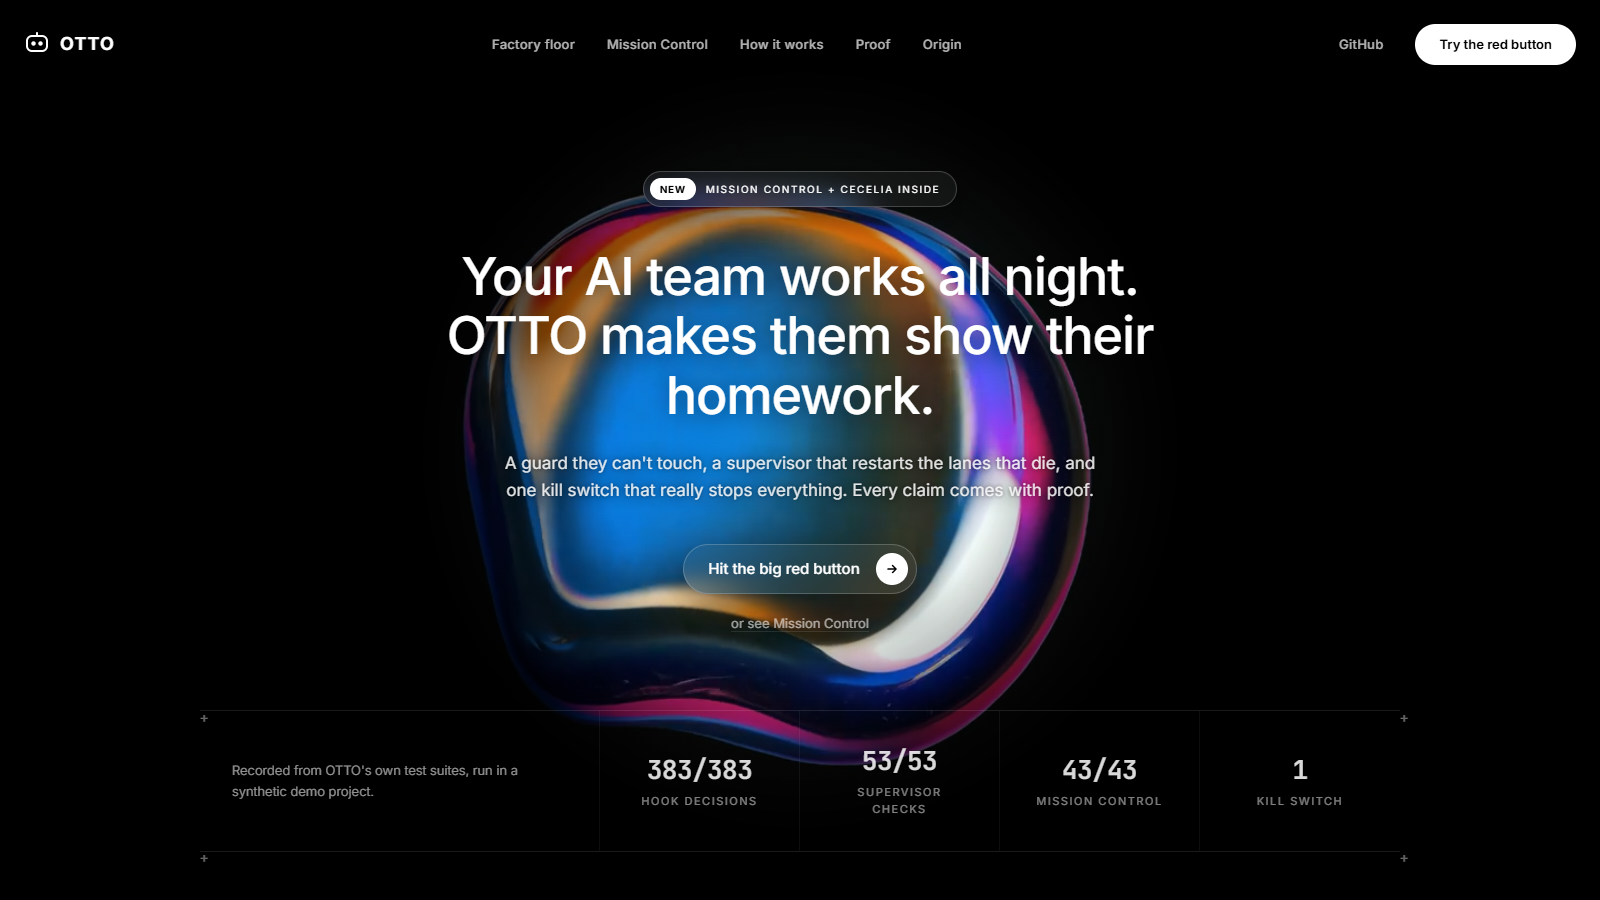
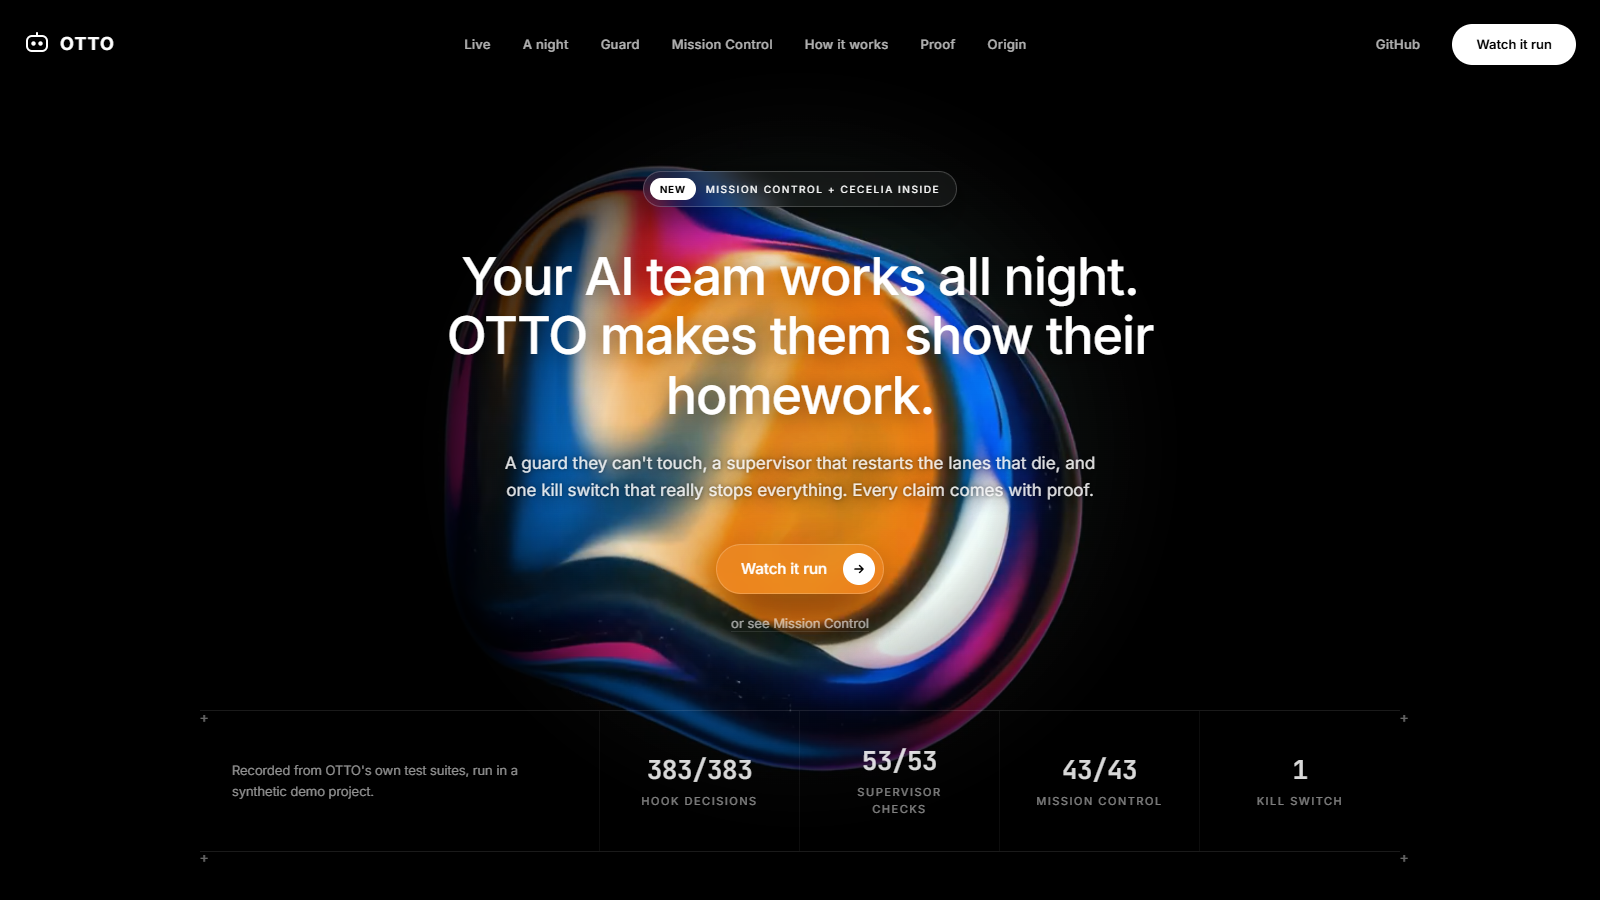
OTTO page: live terminals, a night with OTTO, no big red button

Changed region(s): [[0.2812, 0.1867, 0.6875, 0.8711], [0.2812, 0.0311, 0.6562, 0.0622], [0.8438, 0.0311, 0.9688, 0.0933]]

diff --git a/index.html b/index.html
@@ -66,11 +66,8 @@ h2 em{font-style:normal;color:rgba(255,255,255,.55)}
 .frame .bar{background:rgba(255,255,255,.04);padding:10px 14px;font:12px "JetBrains Mono";color:rgba(255,255,255,.5);display:flex;gap:7px;align-items:center;border-bottom:1px solid var(--line)}
 .frame .bar s{width:9px;height:9px;border-radius:50%;background:rgba(255,255,255,.18);display:inline-block}
 .frame img{display:block;width:100%}
-.fac{display:grid;grid-template-columns:1fr 1.15fr;gap:20px;margin-top:32px}
-.sw{display:flex;flex-direction:column;align-items:center;justify-content:center;gap:16px;text-align:center}
-.bigred{width:180px;height:180px;border-radius:50%;border:1px solid rgba(255,255,255,.25);cursor:pointer;background:radial-gradient(circle at 35% 30%,#ff8a8a,#d81818 58%,#7d0a0a);box-shadow:0 0 60px rgba(255,60,60,.35),inset 0 -8px 20px rgba(0,0,0,.4);color:#fff;font:700 18px Inter;letter-spacing:.1em;transition:transform .12s,box-shadow .2s}
-.bigred:active{transform:scale(.96)}
-.bigred.off{background:radial-gradient(circle at 35% 30%,#8af5c0,#17b86d 58%,#0b6b3f);box-shadow:0 0 60px rgba(52,227,176,.35),inset 0 -8px 20px rgba(0,0,0,.4)}
+.fac{display:grid;grid-template-columns:1fr;gap:14px;margin-top:32px}
+.sw{display:flex;flex-direction:row;align-items:center;justify-content:flex-start;gap:16px;padding:14px 18px}
 .state{font:600 12px "JetBrains Mono";letter-spacing:.1em;padding:6px 14px;border-radius:999px;border:1px solid}
 .on{color:var(--g);border-color:rgba(52,227,176,.4);background:rgba(52,227,176,.08)}.stop{color:var(--r);border-color:rgba(255,93,93,.4);background:rgba(255,93,93,.08)}
 .lanes{display:grid;gap:10px;align-content:center}
@@ -98,7 +95,32 @@ tr:last-child td{border-bottom:0}.ok{color:var(--g);font-weight:600;white-space:
 .btn{display:inline-block;background:#fff;color:#000;font-weight:600;font-size:14px;padding:12px 22px;border-radius:999px;text-decoration:none}
 .btn.g{background:var(--glass);color:#fff;border:1px solid rgba(255,255,255,.2)}
 footer{margin-top:80px;border-top:1px solid var(--line);padding:30px 24px 50px;color:rgba(255,255,255,.5);text-align:center;font-size:14px;font-weight:300}
+
+/* ---------- live terminals ---------- */
+.term{background:#05060a;border:1px solid var(--line);border-radius:16px;overflow:hidden;box-shadow:0 30px 80px rgba(0,0,0,.6);display:flex;flex-direction:column;min-height:330px}
+.term .bar{background:rgba(255,255,255,.04);padding:10px 14px;font:12px "JetBrains Mono";color:rgba(255,255,255,.5);display:flex;gap:7px;align-items:center;border-bottom:1px solid var(--line)}
+.term .bar s{width:9px;height:9px;border-radius:50%;background:rgba(255,255,255,.18);display:inline-block}
+.term .bar em{margin-left:auto;font-style:normal;font-size:10px;letter-spacing:.12em;text-transform:uppercase;color:var(--g);display:flex;align-items:center;gap:6px}
+.term .bar em:before{content:"";width:6px;height:6px;border-radius:50%;background:var(--g);animation:pulse 1.4s infinite}
+@keyframes pulse{50%{opacity:.25}}
+.term pre{margin:0;padding:16px;font:12.5px/1.7 "JetBrains Mono",ui-monospace,monospace;color:rgba(255,255,255,.78);white-space:pre-wrap;word-break:break-word;flex:1;overflow:hidden}
+.term .p{color:var(--g)}.term .ok{color:var(--g)}.term .bad{color:var(--r)}.term .dim{color:rgba(255,255,255,.4)}.term .warn{color:var(--o)}
+.term .cur{display:inline-block;width:7px;height:14px;background:#fff;vertical-align:-2px;margin-left:2px;animation:pulse 1s steps(2) infinite}
+.tgrid{display:grid;grid-template-columns:repeat(3,1fr);gap:16px;margin-top:32px}
+.note{font-size:13px;color:rgba(255,255,255,.4);margin-top:14px;font-weight:300}
+/* ---------- a night with OTTO ---------- */
+.night{display:grid;grid-template-columns:.9fr 1.3fr;gap:32px;margin-top:36px;align-items:start}
+.steps{display:flex;flex-direction:column;gap:10px}
+.step{background:var(--glass);border:1px solid var(--line);border-radius:16px;padding:16px 18px;cursor:pointer;text-align:left;color:inherit;font:inherit;transition:border-color .25s,background .25s,transform .25s}
+.step:hover{border-color:rgba(255,255,255,.3)}
+.step.a{border-color:rgba(52,227,176,.6);background:rgba(52,227,176,.06);transform:translateX(4px)}
+.step .tm{font:600 11px "JetBrains Mono";letter-spacing:.14em;color:var(--g)}
+.step b{display:block;font-weight:500;font-size:16px;margin:2px 0}.step small{color:rgba(255,255,255,.55);font-size:14px;font-weight:300}
+.stage{position:sticky;top:20px}
+.stage .frame img{aspect-ratio:16/10;object-fit:cover;object-position:top;transition:opacity .35s}
+.stage .term{margin-top:12px;min-height:0}.stage .term pre{min-height:108px;padding:12px 16px}
 @media(max-width:900px){
+ .tgrid,.night{grid-template-columns:1fr}.stage{position:static}
  .links,.act{display:none}.burger{display:block}
  .vbox{width:560px;height:560px}
  .grid6{grid-template-columns:repeat(2,1fr)}.grid6 .t{grid-column:span 2;padding:24px}.grid6>div{padding:22px;border-bottom:1px solid rgba(255,255,255,.05)}
@@ -112,17 +134,17 @@ footer{margin-top:80px;border-top:1px solid var(--line);padding:30px 24px 50px;c
 
  <nav class="top al d100">
   <a class="logo" href="#top" aria-label="OTTO home"><svg width="26" height="26" viewBox="0 0 26 26" fill="none" aria-hidden="true"><rect x="3" y="5" width="20" height="15" rx="5" stroke="#fff" stroke-width="2"/><circle cx="9.5" cy="12.5" r="2.2" fill="#fff"/><circle cx="16.5" cy="12.5" r="2.2" fill="#fff"/><path d="M13 5V2" stroke="#fff" stroke-width="2" stroke-linecap="round"/></svg>OTTO</a>
-  <div class="links"><a href="#floor">Factory floor</a><a href="#mc">Mission Control</a><a href="#how">How it works</a><a href="#proof">Proof</a><a href="#origin">Origin</a></div>
-  <div class="act"><a class="l" href="https://github.com/Tootenramen/OTTO">GitHub</a><a class="pill-w" href="#floor">Try the red button</a></div>
+  <div class="links"><a href="#live">Live</a><a href="#night">A night</a><a href="#floor">Guard</a><a href="#mc">Mission Control</a><a href="#how">How it works</a><a href="#proof">Proof</a><a href="#origin">Origin</a></div>
+  <div class="act"><a class="l" href="https://github.com/Tootenramen/OTTO">GitHub</a><a class="pill-w" href="#live">Watch it run</a></div>
   <button class="burger" id="bg" aria-label="Menu" aria-expanded="false"><svg width="26" height="26" viewBox="0 0 24 24" fill="none" stroke="#fff" stroke-width="2" stroke-linecap="round"><path d="M4 7h16M4 12h16M4 17h16"/></svg></button>
  </nav>
- <div class="ov" id="ov"><a href="#floor">Factory floor</a><a href="#mc">Mission Control</a><a href="#how">How it works</a><a href="#proof">Proof</a><a href="#origin">Origin</a><a href="https://github.com/Tootenramen/OTTO">GitHub</a></div>
+ <div class="ov" id="ov"><a href="#live">Live</a><a href="#night">A night</a><a href="#floor">Guard</a><a href="#mc">Mission Control</a><a href="#how">How it works</a><a href="#proof">Proof</a><a href="https://github.com/Tootenramen/OTTO">GitHub</a></div>
 
  <div class="mid" id="top">
   <div class="vp al d200"><b>New</b><span>Mission Control + CECELIA inside</span></div>
   <h1 class="al d300">Your AI team works all night.<br>OTTO makes them show their homework.</h1>
   <p class="sub al d400">A guard they can't touch, a supervisor that restarts the lanes that die, and one kill switch that really stops everything. Every claim comes with proof.</p>
-  <a class="cta al d500" href="#floor">Hit the big red button <i><svg width="14" height="14" viewBox="0 0 24 24" fill="none" stroke="currentColor" stroke-width="2.5" stroke-linecap="round" stroke-linejoin="round" aria-hidden="true"><path d="M5 12h14M13 6l6 6-6 6"/></svg></i></a>
+  <a class="cta al d500" href="#live">Watch it run <i><svg width="14" height="14" viewBox="0 0 24 24" fill="none" stroke="currentColor" stroke-width="2.5" stroke-linecap="round" stroke-linejoin="round" aria-hidden="true"><path d="M5 12h14M13 6l6 6-6 6"/></svg></i></a>
   <div class="sec2 al d600"><a href="#mc">or see Mission Control</a></div>
  </div>
 
@@ -139,11 +161,35 @@ footer{margin-top:80px;border-top:1px solid var(--line);padding:30px 24px 50px;c
 </header>
 
 <main>
+
+<section class="s" id="live"><div class="wrap">
+ <div class="kick">Running right now</div><h2>Three terminals. <em>Zero hand-waving.</em></h2>
+ <p class="lead">Just watch. These replay the checks OTTO runs on itself: the guard refusing a cheat, the supervisor bringing lanes back from the dead, and the kill switch doing its one job.</p>
+ <div class="tgrid">
+  <div class="term" data-script="selfcheck"><div class="bar"><s></s><s></s><s></s>&nbsp; otto selfcheck<em>replay</em></div><pre></pre></div>
+  <div class="term" data-script="supervisor"><div class="bar"><s></s><s></s><s></s>&nbsp; otto supervisor test<em>replay</em></div><pre></pre></div>
+  <div class="term" data-script="kill"><div class="bar"><s></s><s></s><s></s>&nbsp; otto_ctl<em>replay</em></div><pre></pre></div>
+ </div>
+ <p class="note">Replays are abridged and retimed for the page. The recorded, unedited terminal GIFs are further down.</p>
+</div></section>
+
+<section class="s" id="night"><div class="wrap">
+ <div class="kick">One night, start to finish</div><h2>A night <em>with OTTO.</em></h2>
+ <p class="lead">Click through the night. Each step shows the real Mission Control screen you would be looking at, and the line OTTO prints at that moment.</p>
+ <div class="night">
+  <div class="steps" id="steps"></div>
+  <div class="stage">
+   <div class="frame"><div class="bar"><s></s><s></s><s></s>&nbsp; <span id="nl">Mission Control</span></div><img id="ni" src="docs/mc/dark-overview.png" alt="Mission Control screenshot for the selected step"></div>
+   <div class="term"><div class="bar"><s></s><s></s><s></s>&nbsp; factory log<em>live</em></div><pre id="nlog"></pre></div>
+  </div>
+ </div>
+</div></section>
+
 <section class="s" id="floor"><div class="wrap">
- <div class="kick">The factory floor</div><h2>Six AI workers. <em>One red button.</em></h2>
- <p class="lead">A live toy of how OTTO runs a team: lanes with their own checkouts, a supervisor that restarts the ones that die, and a kill switch that actually stops everything. Press it. Then try to cheat.</p>
+ <div class="kick">The factory floor</div><h2>Six AI workers. <em>One guard.</em></h2>
+ <p class="lead">A live toy of how OTTO runs a team: lanes with their own checkouts and a guard the workers cannot touch. Pick a cheat and watch it get refused.</p>
  <div class="fac">
-  <div class="card sw"><div class="state on" id="st">MACHINE ON</div><button class="bigred" id="big">STOP<br>EVERYTHING</button><small class="mono" style="color:rgba(255,255,255,.5)">one marker file is the off switch</small></div>
+  <div class="card sw"><div class="state on" id="st">MACHINE ON</div><small class="mono" style="color:rgba(255,255,255,.5)">6 lanes, each on its own checkout</small></div>
   <div class="card lanes" id="lanes"></div>
  </div>
  <div class="cheat">
@@ -159,7 +205,7 @@ footer{margin-top:80px;border-top:1px solid var(--line);padding:30px 24px 50px;c
 <section class="s" id="mc"><div class="wrap">
  <div class="kick">Mission Control</div><h2>Watch the <em>whole factory</em> on one screen.</h2>
  <p class="lead">A command center for the days-long runs: who is working, how full each context window is, what is stuck, what is proven, and what needs you. Read-only by default. Every write is a gated action with a diff.</p>
- <div class="frame" style="margin-top:32px"><div class="bar"><s></s><s></s><s></s>&nbsp; Mission Control · factory board (recorded)</div><img src="docs/mc-board.gif" alt="Mission Control factory board, live"></div>
+ <div class="frame" style="margin-top:32px"><div class="bar"><s></s><s></s><s></s>&nbsp; Mission Control · factory board (recorded)</div><img loading="lazy" src="docs/mc-board.gif" alt="Mission Control factory board, live"></div>
  <h2 style="margin-top:72px" id="cecelia">Say hi to <em>CECELIA.</em></h2>
  <p class="lead">Cecelia is the factory that runs the sessions. Her live console shows every lane, the supervisor's view, the locks and the problems. The whole machine in a terminal.</p>
  <div class="frame" style="margin-top:24px"><div class="bar"><s></s><s></s><s></s>&nbsp; CECELIA MC · live view</div><img src="docs/mc/dark-otto.png" alt="CECELIA MC live console"></div>
@@ -167,7 +213,7 @@ footer{margin-top:80px;border-top:1px solid var(--line);padding:30px 24px 50px;c
  <div class="tabs" id="tabs"></div>
  <div class="frame"><div class="bar"><s></s><s></s><s></s>&nbsp; <span id="tl">Overview</span></div><img id="ti" src="docs/mc/light-overview.png" alt=""></div>
  <p class="cap" id="tc"></p>
- <div class="frame" style="margin-top:26px"><div class="bar"><s></s><s></s><s></s>&nbsp; a quick tour (recorded)</div><img src="docs/mc-tour.gif" alt="Tour of Mission Control"></div>
+ <div class="frame" style="margin-top:26px"><div class="bar"><s></s><s></s><s></s>&nbsp; a quick tour (recorded)</div><img loading="lazy" src="docs/mc-tour.gif" alt="Tour of Mission Control"></div>
 </div></section>
 
 <section class="s" id="how"><div class="wrap">
@@ -186,10 +232,10 @@ footer{margin-top:80px;border-top:1px solid var(--line);padding:30px 24px 50px;c
 
 <section class="s" id="proof"><div class="wrap">
  <div class="kick">Proof, not promises</div><h2>Real runs. <em>Real numbers.</em></h2>
- <p class="lead">Recorded from OTTO's own test suites, run in a synthetic demo project (acme-checkout: invented work, real OTTO files).</p>
+ <p class="lead">These two are real, unedited recordings of OTTO's own test suites, run in a synthetic demo project (acme-checkout: invented work, real OTTO files).</p>
  <div class="two" style="margin-top:28px">
-  <div class="frame"><div class="bar"><s></s><s></s><s></s>&nbsp; selfcheck</div><img src="docs/term-selfcheck.gif" alt="383 decisions checked"></div>
-  <div class="frame"><div class="bar"><s></s><s></s><s></s>&nbsp; supervisor test</div><img src="docs/term-supervisor.gif" alt="53 supervisor checks"></div>
+  <div class="frame"><div class="bar"><s></s><s></s><s></s>&nbsp; selfcheck</div><img loading="lazy" src="docs/term-selfcheck.gif" alt="383 decisions checked"></div>
+  <div class="frame"><div class="bar"><s></s><s></s><s></s>&nbsp; supervisor test</div><img loading="lazy" src="docs/term-supervisor.gif" alt="53 supervisor checks"></div>
  </div>
  <div class="card" style="margin-top:24px;padding:10px 12px"><table>
   <tr><th>Check</th><th>Result</th></tr>
@@ -219,15 +265,52 @@ bg.onclick=()=>{const o=ov.classList.toggle('open');bg.setAttribute('aria-expand
 ov.querySelectorAll('a').forEach(a=>a.onclick=()=>{ov.classList.remove('open');bg.setAttribute('aria-expanded',false)});
 // video: if the remote clip is unreachable, the page still reads fine on black
 const vid=document.querySelector('.vbox video');vid.addEventListener('error',()=>{vid.style.display='none'});vid.play&&vid.play().catch(()=>{});
+
+// ---------- live terminals (replays) ----------
+const SC={
+selfcheck:[['c','python tests/otto_selfcheck.py'],['o',"guard   <ok>✓</ok> another lane's file refused, even with a checkout"],['o','guard   <ok>✓</ok> own file with no checkout refused'],['o','guard   <ok>✓</ok> removing the stop marker refused'],['o','guard   <ok>✓</ok> editing the guard itself refused'],['o','stop    <ok>✓</ok> quit at 40% ctx, no handoff: <bad>BLOCKED</bad>'],['o','stop    <ok>✓</ok> quit at 85% WITH handoff: allowed'],['o','pretool <ok>✓</ok> subagent depth bounded'],['o','profile <ok>✓</ok> bad value ignored and logged'],['o','cost    <ok>✓</ok> receipt row written'],['o','<ok>383 / 383 decisions checked  GREEN</ok>']],
+supervisor:[['c','pwsh tests/otto_supervisor_test.ps1'],['o','lane features  driver died   <warn>relaunch (backoff 5s)</warn>'],['o','lane features  running     <ok>✓</ok>'],['o','lane release   driver died x3 <bad>QUARANTINED</bad>'],['o','marker        deleted by a worker'],['o','marker        <ok>✓ restored by supervisor</ok>'],['o','usage limit    <warn>waiting for reset</warn>'],['o','usage limit    <ok>✓ resumed</ok>'],['o','<ok>53 / 53 supervisor checks  GREEN</ok>']],
+kill:[['c','otto_ctl off'],['o','marker written: <warn>OTTO_STOP</warn>'],['o','every lane stops at its next tool call'],['o','<dim>nothing killed mid-write</dim>'],['c','rm Tools/OTTO_STOP   # a worker tries'],['o','<bad>REFUSED by the OTTO guard (exit 2)</bad>'],['o','<dim>+1 guard denial logged</dim>'],['c','otto_ctl on'],['o','<ok>supervisor relaunches the lanes, one by one</ok>']]
+};
+const esc=t=>t.replace(/<(\/?)(ok|bad|warn|dim)>/g,(m,c,k)=>c?'</span>':'<span class="'+k+'">');
+const reduce=matchMedia('(prefers-reduced-motion:reduce)').matches;
+function runTerm(box,script){
+ const pre=box.querySelector('pre');let html='';
+ const sleep=ms=>new Promise(r=>setTimeout(r,ms));
+ const draw=(extra)=>{pre.innerHTML=html+(extra||'')+'<span class="cur"></span>'};
+ if(reduce){pre.innerHTML=script.map(([k,t])=>k=='c'?'<span class="p">$</span> '+t:esc(t)).join('\n');return}
+ (async()=>{for(;;){html='';draw();
+  for(const [k,t] of script){
+   if(k=='c'){let cur='';for(const ch of t){cur+=ch;draw('<span class="p">$</span> '+cur);await sleep(28)}html+='<span class="p">$</span> '+t+'\n';draw();await sleep(380)}
+   else{html+=esc(t)+'\n';draw();await sleep(300+Math.random()*220)}}
+  await sleep(4200)}})();
+}
+const io=new IntersectionObserver(es=>es.forEach(e=>{if(e.isIntersecting&&!e.target._r){e.target._r=1;runTerm(e.target,SC[e.target.dataset.script])}}),{threshold:.35});
+document.querySelectorAll('.term[data-script]').forEach(t=>io.observe(t));
+// ---------- a night with OTTO ----------
+const N=[
+['21:00','Lanes launch','Six lanes start, each on its own checkout.','dark-overview','Overview: the factory board',['supervisor: launching 6 lanes','lane features  checkout ok','lane quality   checkout ok','<ok>machine ON</ok>']],
+['23:40','Context fills up','Every worker watches its own window.','dark-otto','Otto: who is doing what, right now',['features  ctx 76% - verifying','quality   ctx 55%','<dim>handoff due at ~80%</dim>']],
+['01:15','A worker cheats','The guard sits outside the agent. It says no.','dark-activity','Live Activity: sessions, commits, runs',['otto-features tried to write docs/api.md','<bad>REFUSED by the OTTO guard (exit 2)</bad>','<dim>+1 denial logged on the features card</dim>']],
+['03:30','A lane keeps dying','Three driver deaths and it is quarantined.','dark-verification','Verification: one verdict per run',['release: driver died (1/3), relaunch','release: driver died (3/3)','<bad>release: QUARANTINED</bad>','<ok>proof gate: one verdict</ok>']],
+['05:00','Handoff, fresh start','Work to ~80%, verify to ~95%, hand off, restart.','dark-git','Git: who changed what, writes gated',['context 80% - writing handoff','<ok>handoff rewritten</ok>','fresh session started']],
+['07:00','Morning brief','Everything it could not decide, in one list.','light-decisions','Decisions: your call, in one list',['<ok>GREEN 183/183</ok>','decisions waiting on you: see list','<dim>every claim cites its evidence</dim>']]];
+const steps=document.getElementById('steps'),ni=document.getElementById('ni'),nl=document.getElementById('nl'),nlog=document.getElementById('nlog');let tok=0,auto=null,ci=0;
+N.forEach((n,i)=>{const b=document.createElement('button');b.className='step';b.innerHTML='<span class="tm">'+n[0]+'</span><b>'+n[1]+'</b><small>'+n[2]+'</small>';b.onclick=()=>{clearInterval(auto);ci=i;pick(i)};steps.appendChild(b)});
+async function pick(i){const my=++tok;[...steps.children].forEach((x,j)=>x.classList.toggle('a',j==i));
+ ni.style.opacity=.15;setTimeout(()=>{ni.src='docs/mc/'+N[i][3]+'.png';ni.style.opacity=1},180);nl.textContent=N[i][4];
+ let h='';nlog.innerHTML='<span class="cur"></span>';
+ for(const l of N[i][5]){if(my!=tok)return;h+='<span class="dim">'+N[i][0]+'</span>  '+esc(l)+'\n';nlog.innerHTML=h+'<span class="cur"></span>';await new Promise(r=>setTimeout(r,reduce?0:520))}}
+pick(0);
+new IntersectionObserver(es=>es.forEach(e=>{clearInterval(auto);if(e.isIntersecting&&!reduce)auto=setInterval(()=>{ci=(ci+1)%N.length;pick(ci)},6500)}),{threshold:.4}).observe(document.getElementById('night'));
 // factory
 const L=[['features',76],['quality',55],['docs',26],['infra',43],['security',0,'category stopped'],['release',0,'quarantined']];let on=true;
-const lanes=document.getElementById('lanes'),st=document.getElementById('st'),big=document.getElementById('big'),out=document.getElementById('out');
+const lanes=document.getElementById('lanes'),st=document.getElementById('st'),out=document.getElementById('out');
 lanes.innerHTML=L.map(([n,p,x],i)=>`<div class="lane" id="l${i}"><b>${n}</b><div class="meter"><i></i></div><small></small></div>`).join('');
 function paint(){L.forEach(([n,p,x],i)=>{const el=document.getElementById('l'+i),dead=!on||!p;el.classList.toggle('dead',dead);el.querySelector('i').style.width=dead?'100%':p+'%';el.querySelector('small').textContent=!on?'STOPPED':x||('ctx '+p+'%')});
- st.textContent=on?'MACHINE ON':'MACHINE OFF';st.className='state '+(on?'on':'stop');big.className='bigred'+(on?'':' off');big.innerHTML=on?'STOP<br>EVERYTHING':'TURN<br>IT BACK ON'}
+ st.textContent=on?'MACHINE ON':'MACHINE OFF';st.className='state '+(on?'on':'stop');}
 setTimeout(paint,300);
 setInterval(()=>{if(!on)return;L.forEach((l,i)=>{if(l[1]){l[1]=l[1]>=90?20:l[1]+Math.round(Math.random()*5);const el=document.getElementById('l'+i);el.querySelector('i').style.width=l[1]+'%';el.querySelector('small').textContent='ctx '+l[1]+'%'}})},2200);
-big.onclick=()=>{on=!on;paint();out.innerHTML=on?'<span class="o">otto_ctl on</span>  the supervisor relaunches the lanes, one by one, with backoff.':'<span class="r">otto_ctl off</span>  marker written. Every lane stops at its next tool call. Nothing is killed mid-write; the supervisor just stops relaunching.'};
 const C={a:['features','docs/api.md','another category\'s file is refused even with a checkout'],b:['quality','tests/new_case.py','own file without a checkout is refused'],c:['features','Tools/OTTO_STOP','removing the stop marker is refused'],d:null,e:['docs','Tools/otto_stop_hook.py','control plane refused even with a checkout']};
 document.querySelectorAll('.cheat button').forEach(b=>b.onclick=()=>{const k=b.dataset.c;
  if(k=='d'){out.innerHTML='<span class="mono">stop hook</span> context 40%, no handoff\n<span class="r">BLOCKED</span>  keep working. Stop at 10%: blocked. Stop at 85% without a handoff: blocked.\n<span class="o">ALLOWED</span>  stop at 85% WITH a rewritten handoff, or at 96%.';return}
